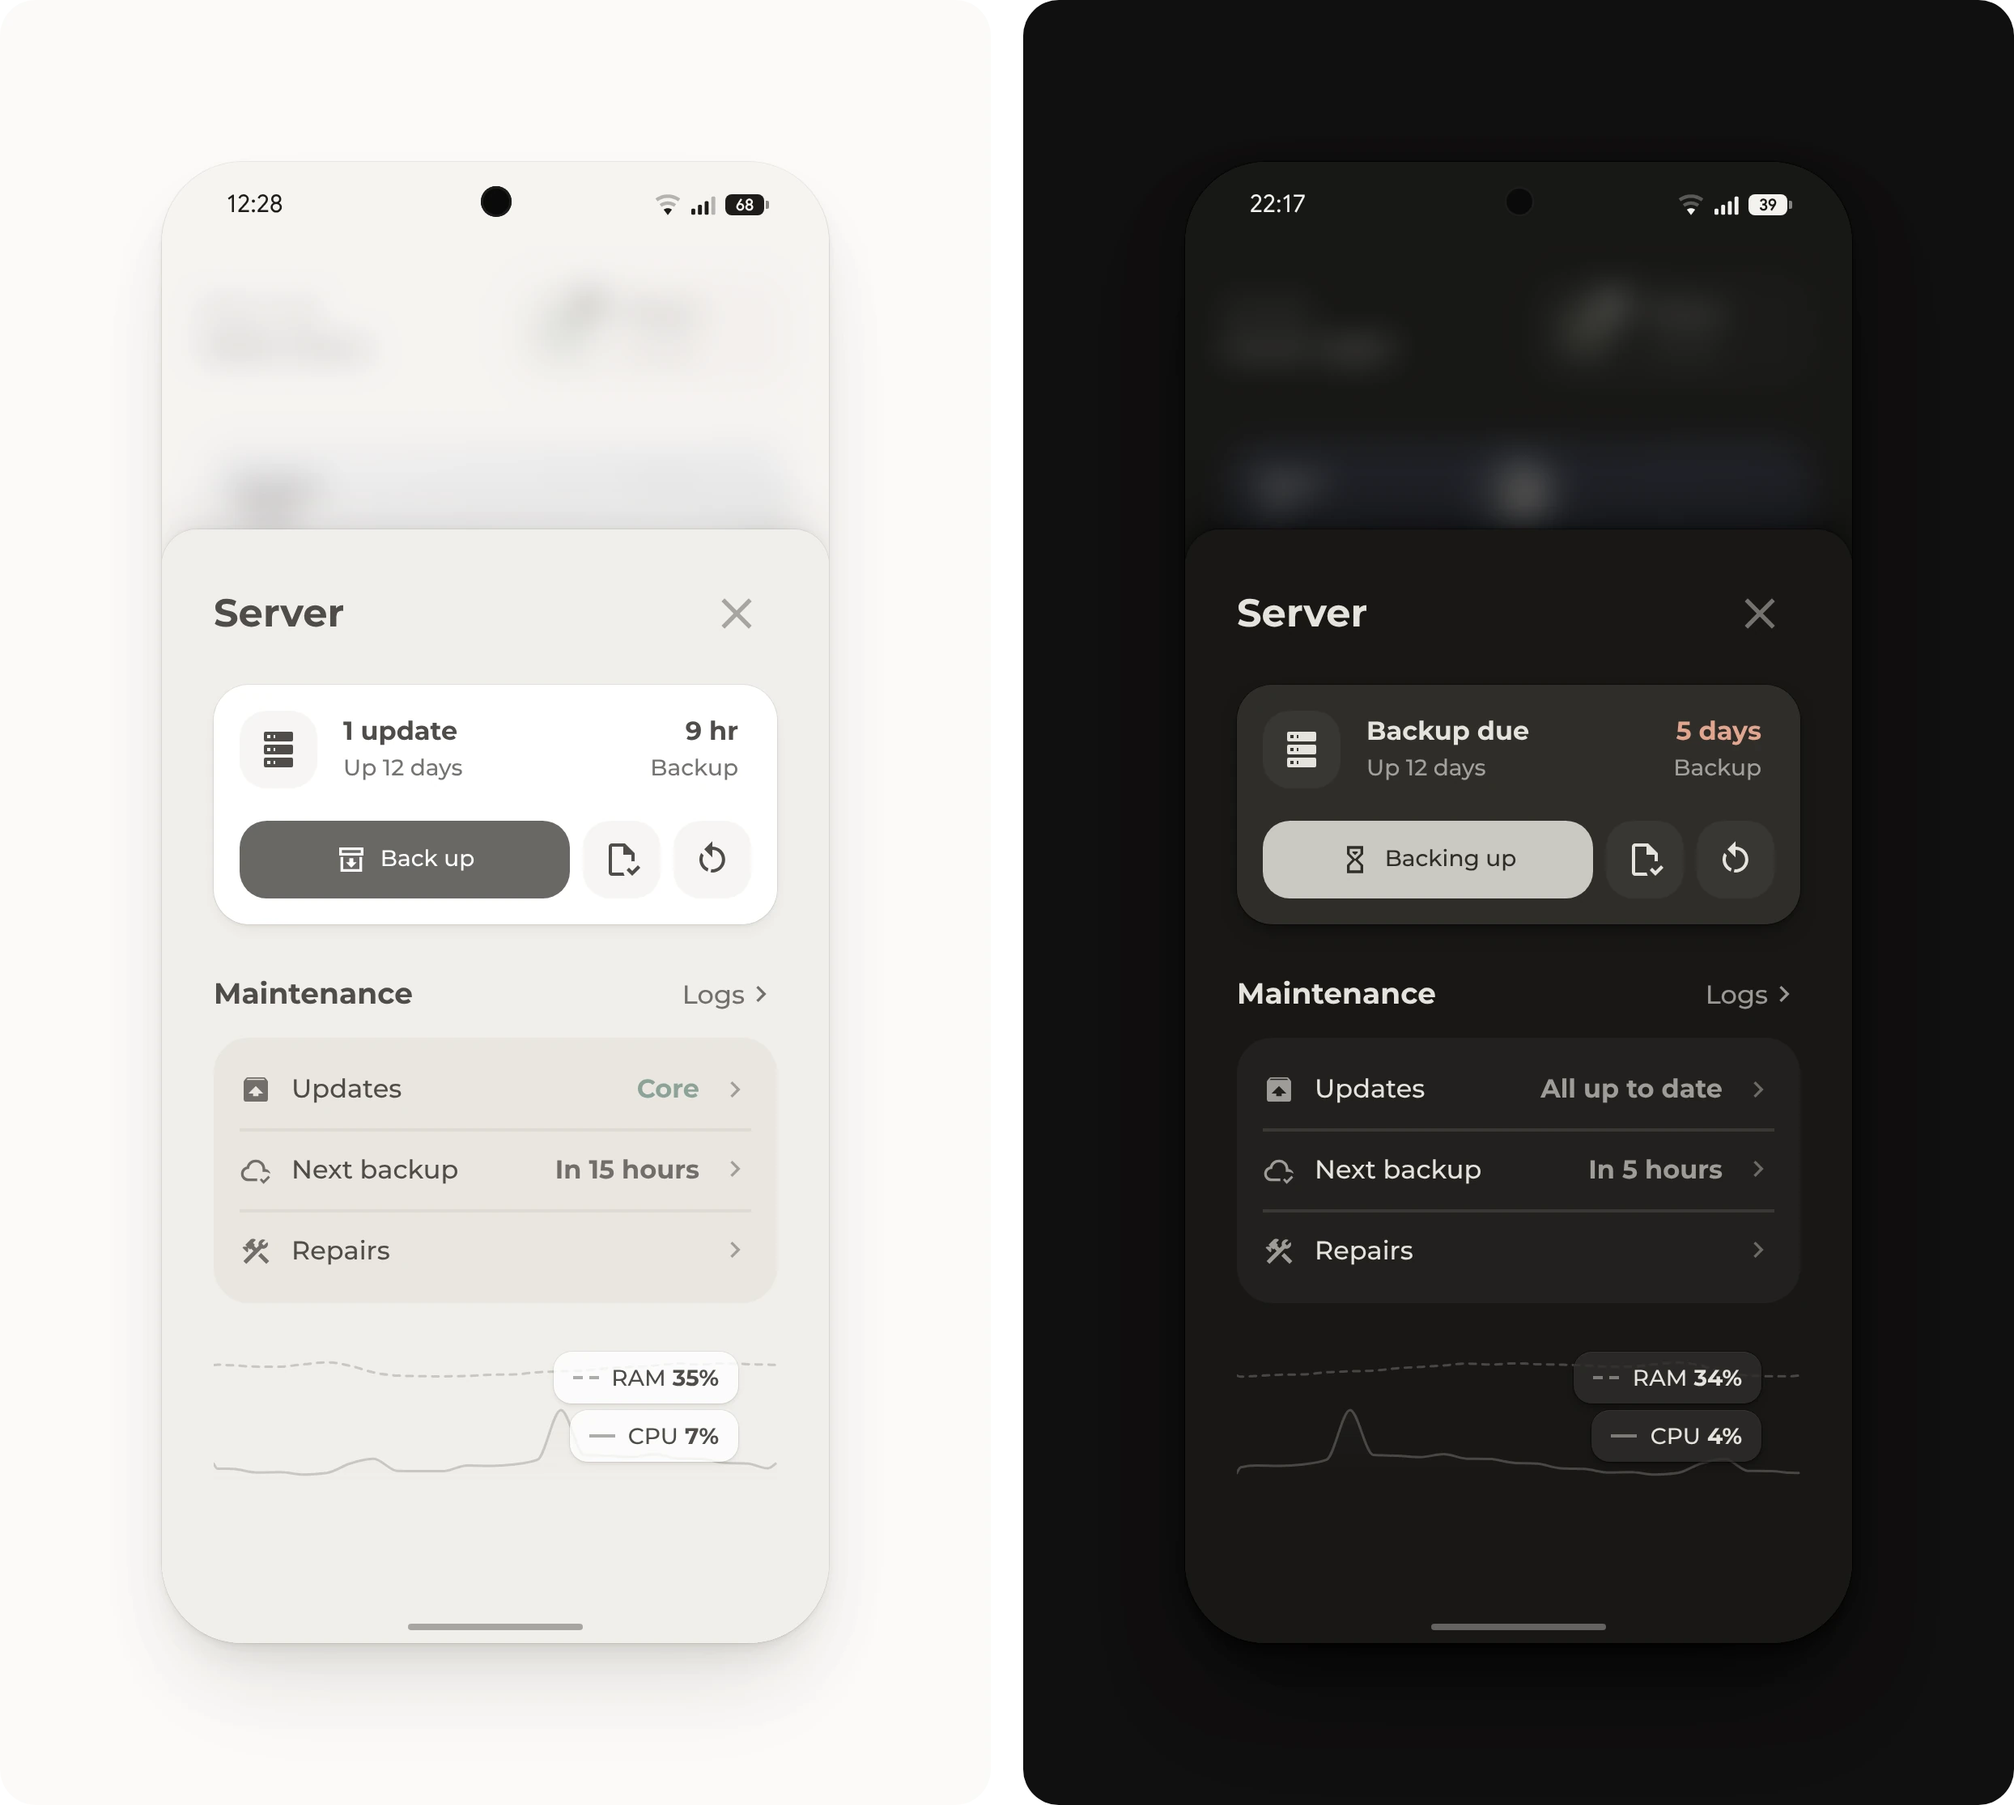
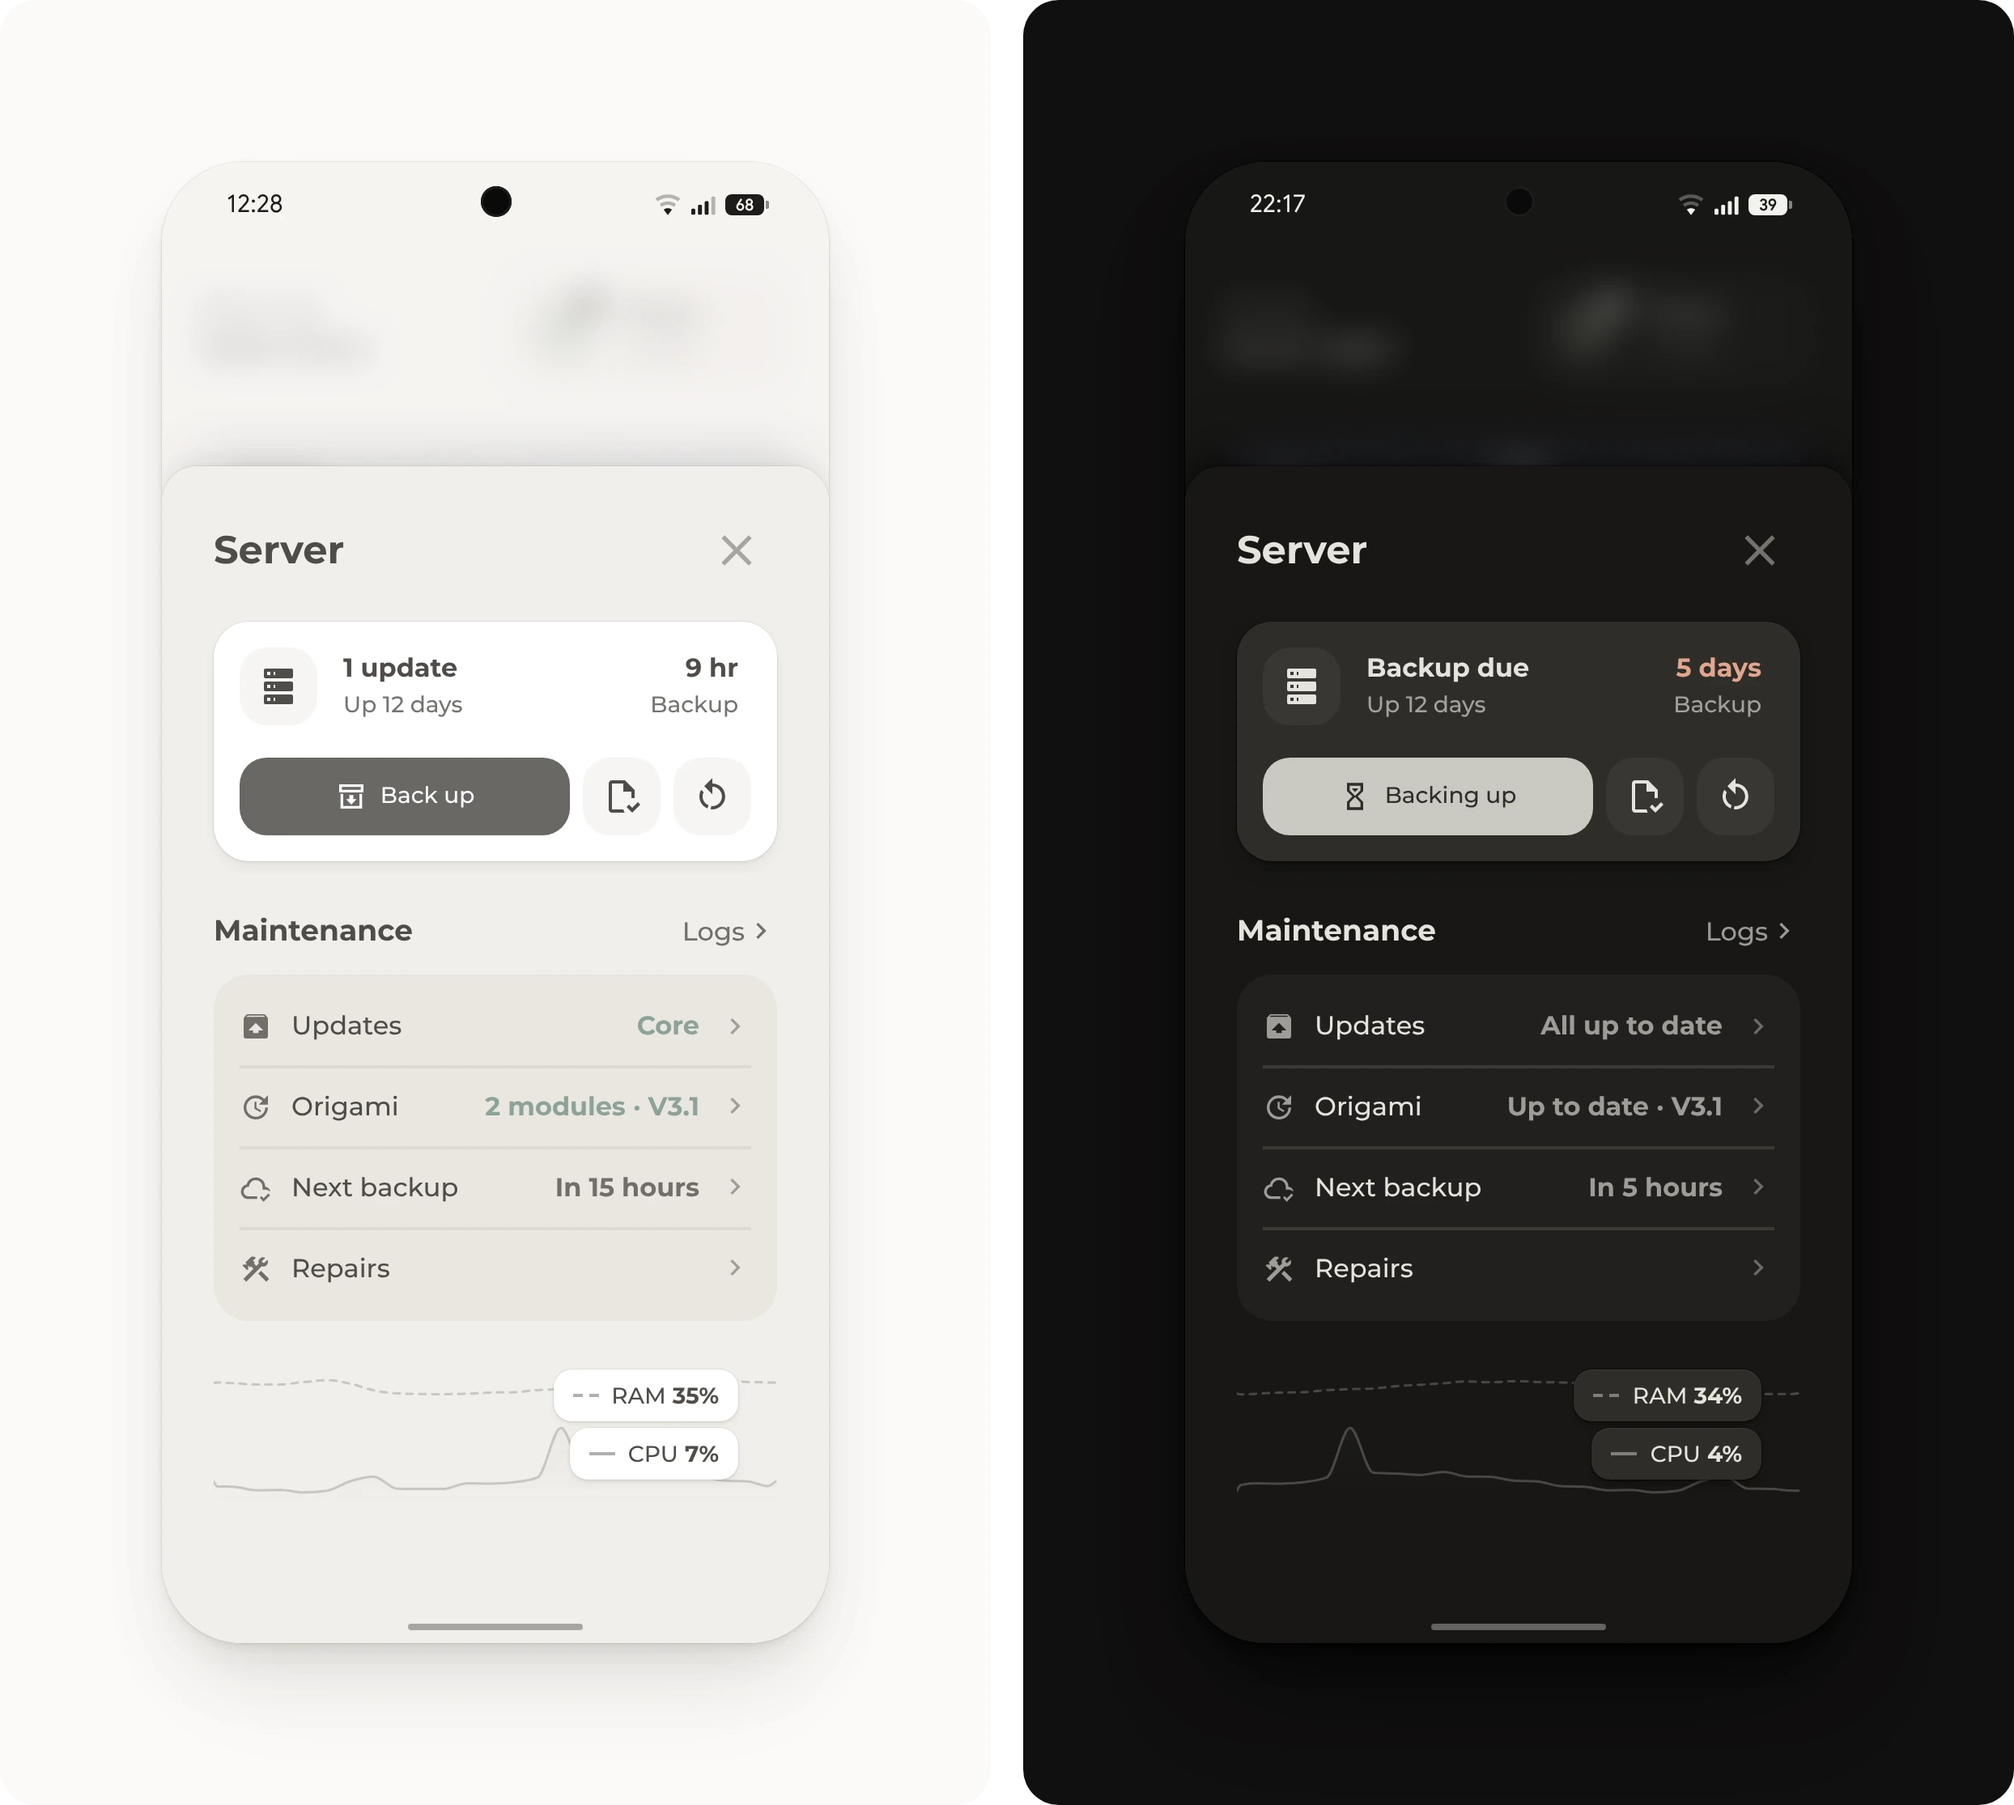
Graph's legend on a solid card background, and an Origami row in the server pop-up's list

diff --git a/bubble_card/README.md b/bubble_card/README.md
@@ -1457,7 +1457,7 @@ The Graph module draws the history of one or more entities on a button card, as 
 | `gradient` | `none` | `temperature` colors a line by its value with the temperature colors of the room cards. `custom` uses the colors under `stops`, each a `value` and a `color`. |
 | `smooth` | `true` | With `false`, the line runs straight from value to value. |
 | `animate` | `false` | Draws the graph in from the left when it appears. |
-| `legend` | `false` | Each main sub-button that shows a drawn entity gets a short sample of its line, and the entity's value in bold after the sub-button's name. Behind the content, these values stand on top of each other at the end, in the order of their lines, on the card's background with a blur and the chip shadow. The lines are then as strong as below the content. |
+| `legend` | `false` | Each main sub-button that shows a drawn entity gets a short sample of its line, and the entity's value in bold after the sub-button's name. Behind the content, these values stand on top of each other at the end, in the order of their lines, on the card's background with the chip shadow, like a card. The lines are then as strong as below the content. |
 
 Lines stay neutral. The first one is a little darker than the area under it, and a second and a third one are dashed and dotted. Lines with the same unit share a scale. A thermostat's bars take a soft tint of the heat color. An entity's own `color` replaces these colors at full strength.
 

diff --git a/dashboard/server/README.md b/dashboard/server/README.md
@@ -6,7 +6,7 @@ How the Home Assistant server is doing, with its backups and updates, and button
 
 ## Requirements
 
-- [Get started](../../README.md#get-started), with the modules Base, Popup, Header, Tiles and Graph
+- [Get started](../../README.md#get-started), with the modules Base, Popup, Header, Tiles, Graph and Update
 - [System Monitor](https://www.home-assistant.io/integrations/systemmonitor/), an integration that comes with Home Assistant
 - Automatic backups, set up under **Settings**, **System**, **Backups**
 
@@ -17,6 +17,10 @@ How the Home Assistant server is doing, with its backups and updates, and button
 3. If an entity ID differs from the ones under [Entities](#entities), change it in [`pop-up.yaml`](pop-up.yaml).
 4. Add [`pop-up.yaml`](pop-up.yaml) to the dashboard, as described under [Get started](../../README.md#get-started).
 5. Open the pop-up from a button whose tap action is **Navigate** to `#popup_server`, such as the server card in the [menu](../menu/README.md).
+
+## Optional
+
+- **Origami updates.** Only useful for updating the Origami modules right here. The **Origami** row replaces them with the newer ones of the installed release in one tap, as the [update card](../update/README.md) does. Without it, delete the **Origami** row and `origami_update` from the modules of the list under **Maintenance**.
 
 ## Entities
 

diff --git a/CHANGELOG.md b/CHANGELOG.md
@@ -5,7 +5,7 @@
 - The navigation bar no longer sits under the phone's navigation buttons, such as Android's three buttons.
 - A new Graph module draws the history of entities as quiet lines or bars, below a card's content or softly behind it, and can turn the card's values into its legend.
 - The room cards show the temperature of the last day as a soft area behind them.
-- The server pop-up draws its load with the Graph module instead of Plotly Graph Card, with processor and memory as its legend.
+- The server pop-up draws its load with the Graph module instead of Plotly Graph Card, with processor and memory as its legend, and its list can update the Origami modules.
 - Rows of tiles and buttons that scroll sideways should now swipe on iPhones and iPads too.
 - The music, TV and fan cards have the same space above their slider as the light cards, with `rows: auto` and `bottom_layout: rows` instead of `rows: '2.2'`.
 - Chips in a row of buttons are as tall as the chips in a header and have the same room around their icon, so a row with larger icons no longer looks squeezed.

diff --git a/dashboard/update/README.md b/dashboard/update/README.md
@@ -2,7 +2,7 @@
 
 <img width="800" alt="The update card with two newer modules, and after it replaced them, in light and dark mode" src="https://raw.githubusercontent.com/hazymorning/origami/next/images/v3/update-card.webp">
 
-New Origami modules with one tap, once the Marketplace has the new release.
+For a dashboard with the Origami modules: their new versions in one tap, once the Marketplace has the new release. The [server pop-up](../server/README.md) has the same as a row in its list.
 
 ## Requirements
 
@@ -11,7 +11,7 @@ New Origami modules with one tap, once the Marketplace has the new release.
 
 ## Setup
 
-1. Add [`card.yaml`](card.yaml) to the dashboard, as described under [Get started](../../README.md#get-started), for example in the [server pop-up](../server/README.md).
+1. Add [`card.yaml`](card.yaml) to the dashboard, as described under [Get started](../../README.md#get-started).
 
 ## Entities
 
